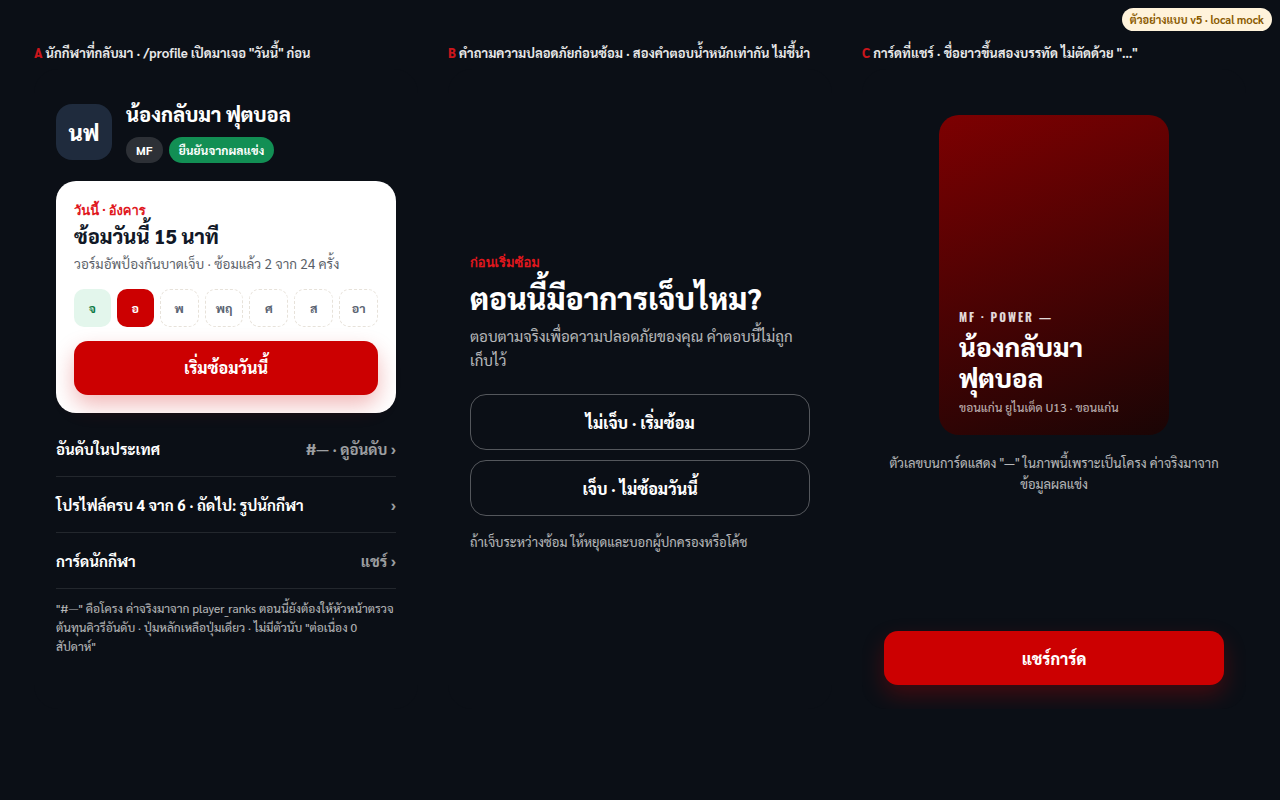
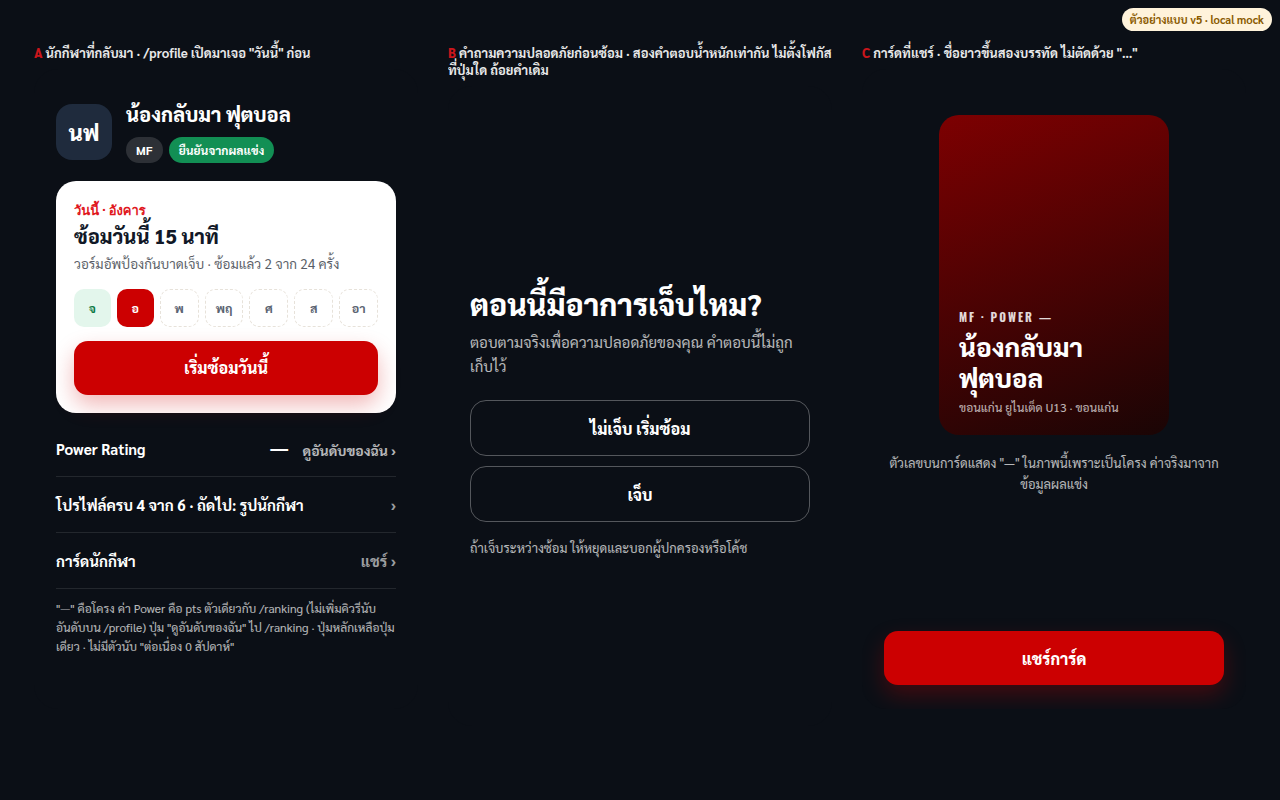
docs: align mockups v3/v4/v5 with the lead's review; add approval status
Claude-Session: https://claude.ai/code/session_01PjDzXVQ18knfqzVgKra3B3

diff --git a/docs/ux-audit/mockups/v5-flow5.html b/docs/ux-audit/mockups/v5-flow5.html
@@ -12,11 +12,11 @@
 <div class="top"><div class="av">นฟ</div><div><b style="font:800 20px var(--font-sarabun)">น้องกลับมา ฟุตบอล</b><div class="chips"><span class="ui-chip is-self">MF</span><span class="ui-chip is-performance">ยืนยันจากผลแข่ง</span></div></div></div>
 <div class="card2"><p class="ui-eyebrow" style="letter-spacing:0;text-transform:none;font-size:13px">วันนี้ · อังคาร</p><h2 class="ui-h2" style="margin:2px 0 0;font-size:20px">ซ้อมวันนี้ 15 นาที</h2><p class="sub" style="font-size:13.5px;margin-top:4px">วอร์มอัพป้องกันบาดเจ็บ · ซ้อมแล้ว 2 จาก 24 ครั้ง</p>
 <div class="wk"><i class="done">จ</i><i class="on">อ</i><i>พ</i><i>พฤ</i><i>ศ</i><i>ส</i><i>อา</i></div><button class="ui-btn ui-btn-primary">เริ่มซ้อมวันนี้</button></div>
-<div style="margin-top:8px"><div class="line">อันดับในประเทศ<span class="r">#— · ดูอันดับ ›</span></div><div class="line">โปรไฟล์ครบ 4 จาก 6 · ถัดไป: รูปนักกีฬา<span class="r">›</span></div><div class="line">การ์ดนักกีฬา<span class="r">แชร์ ›</span></div></div>
-<p class="sub" style="font-size:12px;margin-top:10px">"#—" คือโครง ค่าจริงมาจาก player_ranks ตอนนี้ยังต้องให้หัวหน้าตรวจต้นทุนคิวรีอันดับ · ปุ่มหลักเหลือปุ่มเดียว · ไม่มีตัวนับ "ต่อเนื่อง 0 สัปดาห์"</p></div></div></section>
+<div style="margin-top:8px"><div class="line">Power Rating <span class="r" style="opacity:1;font:800 18px var(--font-oswald)">— &nbsp; <span style="font:700 14px var(--font-sarabun);opacity:.7">ดูอันดับของฉัน ›</span></span></div><div class="line">โปรไฟล์ครบ 4 จาก 6 · ถัดไป: รูปนักกีฬา<span class="r">›</span></div><div class="line">การ์ดนักกีฬา<span class="r">แชร์ ›</span></div></div>
+<p class="sub" style="font-size:12px;margin-top:10px">"—" คือโครง ค่า Power คือ pts ตัวเดียวกับ /ranking (ไม่เพิ่มคิวรีนับอันดับบน /profile) ปุ่ม "ดูอันดับของฉัน" ไป /ranking · ปุ่มหลักเหลือปุ่มเดียว · ไม่มีตัวนับ "ต่อเนื่อง 0 สัปดาห์"</p></div></div></section>
 
-<section><p class="cap"><b>B</b> คำถามความปลอดภัยก่อนซ้อม · สองคำตอบน้ำหนักเท่ากัน ไม่ชี้นำ</p><div class="scr dk ui-dark"><div class="in" style="justify-content:center"><p class="ui-eyebrow" style="letter-spacing:0;text-transform:none;font-size:13px">ก่อนเริ่มซ้อม</p><h1>ตอนนี้มีอาการเจ็บไหม?</h1><p class="sub">ตอบตามจริงเพื่อความปลอดภัยของคุณ คำตอบนี้ไม่ถูกเก็บไว้</p>
-<div class="pair"><button class="eq">ไม่เจ็บ · เริ่มซ้อม</button><button class="eq">เจ็บ · ไม่ซ้อมวันนี้</button></div><p class="sub" style="font-size:13px;margin-top:16px">ถ้าเจ็บระหว่างซ้อม ให้หยุดและบอกผู้ปกครองหรือโค้ช</p></div></div></section>
+<section><p class="cap"><b>B</b> คำถามความปลอดภัยก่อนซ้อม · สองคำตอบน้ำหนักเท่ากัน ไม่ตั้งโฟกัสที่ปุ่มใด ถ้อยคำเดิม</p><div class="scr dk ui-dark"><div class="in" style="justify-content:center"><h1>ตอนนี้มีอาการเจ็บไหม?</h1><p class="sub">ตอบตามจริงเพื่อความปลอดภัยของคุณ คำตอบนี้ไม่ถูกเก็บไว้</p>
+<div class="pair"><button class="eq">ไม่เจ็บ เริ่มซ้อม</button><button class="eq">เจ็บ</button></div><p class="sub" style="font-size:13px;margin-top:16px">ถ้าเจ็บระหว่างซ้อม ให้หยุดและบอกผู้ปกครองหรือโค้ช</p></div></div></section>
 
 <section><p class="cap"><b>C</b> การ์ดที่แชร์ · ชื่อยาวขึ้นสองบรรทัด ไม่ตัดด้วย "…"</p><div class="scr dk ui-dark"><div class="in" style="align-items:center"><div style="margin-top:20px;width:230px;height:320px;border-radius:20px;background:linear-gradient(160deg,#7d0001,#1a0505);padding:20px;display:flex;flex-direction:column;justify-content:flex-end"><span class="ui-eyebrow" style="color:#fff;opacity:.85">MF · POWER —</span><b style="font:800 26px/1.2 var(--font-sarabun);margin-top:6px">น้องกลับมา<br>ฟุตบอล</b><span style="font-size:12px;opacity:.7;margin-top:6px">ขอนแก่น ยูไนเต็ด U13 · ขอนแก่น</span></div>
 <p class="sub" style="margin-top:18px;text-align:center;font-size:13px">ตัวเลขบนการ์ดแสดง "—" ในภาพนี้เพราะเป็นโครง ค่าจริงมาจากข้อมูลผลแข่ง</p></div><div class="ft"><button class="ui-btn ui-btn-primary">แชร์การ์ด</button></div></div></section>

diff --git a/docs/ux-audit/mockups/v3-flow3.html b/docs/ux-audit/mockups/v3-flow3.html
@@ -5,9 +5,9 @@
 <div class="frames c3">
 <section><p class="cap"><b>A</b> โค้ช · ขั้น 2 ของ 3 ต่อจากหน้าตั้งชื่อทีม (/team-members?team=…)</p><div class="scr pp"><div class="in">
 <div class="stp" role="progressbar" aria-valuenow="2" aria-valuemin="1" aria-valuemax="3" aria-label="ขั้น 2 จาก 3"><div class="done"><i></i>สร้างทีม</div><div class="now"><i></i>เชิญสมาชิก</div><div><i></i>ส่งสมัคร & ชำระ</div></div>
-<p class="ui-eyebrow" style="letter-spacing:0;text-transform:none;font-size:13px">ขอนแก่น ยูไนเต็ด U13</p><h1>เชิญนักกีฬาคนแรก</h1><p class="sub">วางอีเมลที่นักกีฬาใช้สมัคร หลายคนได้ (คั่นด้วยบรรทัดใหม่)</p>
-<div style="margin-top:16px;border-bottom:1.5px solid var(--ui-line);min-height:110px;font:600 16px/1.9 var(--font-sarabun);opacity:.45">nong.a@example.com<br>nong.b@example.com</div>
-<p class="sub" style="font-size:12.5px;margin-top:12px">เด็กแต่ละคนกดรับเองในแอป · ส่งสมัครได้เมื่อมีคนตอบรับ 1 คนขึ้นไป · ไม่ต้องรอครบทีม</p></div>
+<p class="ui-eyebrow" style="letter-spacing:0;text-transform:none;font-size:13px">ขอนแก่น ยูไนเต็ด U13</p><h1>เชิญนักกีฬาคนแรก</h1><p class="sub">กรอกอีเมลที่นักกีฬาใช้สมัคร</p>
+<div style="margin-top:20px;border-bottom:1.5px solid var(--ui-line);padding:10px 0;font:600 18px var(--font-sarabun);opacity:.45">nong.a@example.com</div>
+<p class="sub" style="font-size:12.5px;margin-top:12px">เชิญได้ทีละคน เด็กแต่ละคนกดรับเองในแอป · ส่งสมัครได้เมื่อมีคนตอบรับ 1 คนขึ้นไป · ไม่ต้องรอครบทีม (เชิญหลายอีเมลรอเจ้าของเลือกวิธีตอบ ก./ข.)</p></div>
 <div class="ft"><button class="ui-btn ui-btn-primary">ส่งคำเชิญ</button><p class="hint">ตอบรับแล้ว 0 · รอตอบ 0</p></div></div></section>
 
 <section><p class="cap"><b>B</b> โค้ชที่ยังไม่มีทีม · เปิด /team-members (เดิมเห็นแต่ "คำเชิญของฉัน")</p><div class="scr pp"><div class="in"><p class="ui-eyebrow" style="letter-spacing:0;text-transform:none;font-size:13px">ทีมของฉัน</p><h1>ยังไม่มีทีม</h1><p class="sub">เริ่มจากเลือกรายการที่เปิดรับสมัคร แล้วตั้งชื่อทีม</p>

diff --git a/docs/ux-audit/mockups/v4-flow4.html b/docs/ux-audit/mockups/v4-flow4.html
@@ -20,6 +20,6 @@
 <section><p class="cap"><b>C</b> ทีมรอยืนยัน · ตรวจสลิปแล้วกดครั้งเดียว</p><div class="scr pp"><div class="in"><p class="ui-eyebrow" style="letter-spacing:0;text-transform:none;font-size:13px">ทีมรอยืนยัน 2</p><h1 style="font-size:24px">ร.ร.อัสสัมชัญศรีราชา</h1><p class="sub">ศึกชิงถ้วยพระราชทาน U15 · นักกีฬาตอบรับแล้ว 7 คน</p>
 <div class="row2"><div><b>฿1,500</b>ยอดต้องชำระ</div><div><b>รอตรวจ</b>สลิปที่ส่งมา</div></div>
 <div class="slip">สลิปโอนเงิน (พื้นที่ภาพ ตัวอย่าง ไม่ใช่ภาพจริง)<br>แตะเพื่อขยาย</div>
-<div class="note">กดครั้งเดียว = ยืนยันการชำระเงินและยืนยันทีมพร้อมกัน ระบบทำสองอย่างในธุรกรรมเดียว ไม่ค้างกลางทาง</div></div>
+<div class="note">กดครั้งเดียว = ยืนยันการชำระเงินและยืนยันทีมพร้อมกัน ระบบทำสองอย่างในธุรกรรมเดียว ไม่ค้างกลางทาง · ปุ่มยืนยันทีมแยกเหลือไว้เฉพาะรายการที่ไม่มีค่าสมัคร</div></div>
 <div class="ft"><button class="ui-btn ui-btn-primary">ยืนยันทีมและการชำระ</button><button class="gh">ปฏิเสธ</button><p class="hint tap" style="opacity:1">1 แตะต่อทีม (เดิม 2 + เปิดสลิป)</p></div></div></section>
 </div></body></html>

diff --git a/docs/ux-audit/status.md b/docs/ux-audit/status.md
@@ -1,0 +1,20 @@
+# สถานะ mockup และการอนุมัติ (ปรับล่าสุด 6 ต.ค. 2026)
+
+กฎ: ไม่แก้โค้ดแอปจนกว่า **เจ้าของ** จะพิมพ์อนุมัติเอง ข้อความตัวอย่างที่หัวหน้าเขียนให้เจ้าของใช้ตอบไม่นับเป็นการอนุมัติ
+
+| mockup | สถานะ | หมายเหตุ |
+|---|---|---|
+| v2-3 บันทึกผลแข่ง | **สร้างแล้ว** (อนุมัติโดยเจ้าของ) `c6a5445`, `bc65339` | รวมใน branch ของหัวหน้าแล้ว |
+| v3 โค้ช/นักกีฬาที่ถูกเชิญ (A, B, C) | รออนุมัติเจ้าของ | A ทำแบบช่องอีเมลเดียวได้ · เชิญหลายอีเมลรอเจ้าของเลือก ก./ข. |
+| v4 ผู้จัด (A, B, C) | รออนุมัติเจ้าของ | A เว้นช่องทางขอสิทธิ์ไว้ ไม่ใส่ปุ่มติดต่อ (ยังไม่มีช่องทาง) · B ปุ่มขึ้นเฉพาะนัดแรกที่ยังว่างของคู่ · C ใช้ `/api/payments/[id]/confirm` ตัวเดียว |
+| v5 นักกีฬาที่กลับมา (A, B, C) | รออนุมัติเจ้าของ | A แสดง Power (`pts` ตัวเดียวกับ `/ranking`) + ปุ่ม "ดูอันดับของฉัน" ไม่มีคิวรีนับอันดับ · B ปุ่มเท่ากัน ไม่ตั้งโฟกัส ถ้อยคำเดิมจนกว่าผู้รู้ตรวจ |
+| v2-1, v2-2, v2-4, v2-5 | รอ (ติดเรื่องฐานข้อมูล/กฎหมาย/เลือก ก./ข.) | หยุดไว้ที่ mockup |
+
+## ตัวเลือก ก./ข. (เชิญสมาชิกเมื่ออีเมลยังไม่มีบัญชี) — รอเจ้าของเลือก
+
+- **ก.** ตอบข้อความเดียวกันทุกกรณี เช่น "ส่งคำเชิญแล้ว ถ้าอีเมลนี้มีบัญชี เจ้าของบัญชีจะเห็นคำเชิญ" คนภายนอกเช็กไม่ได้ว่าอีเมลไหนมีบัญชี แต่โค้ชจะไม่รู้ทันทีว่าพิมพ์อีเมลผิด (ชดเชยด้วยรายการ "รอตอบ") หัวหน้าแนะนำ
+- **ข.** คงข้อความ "ยังไม่มีบัญชีนี้ในระบบ" แล้วจำกัดจำนวนครั้งที่เชิญต่อชั่วโมง
+
+## เมื่อเจ้าของอนุมัติ — ลำดับงาน
+
+v4-B → v4-C → v3-B → v3-C → v5-C → (v5-A, v5-B, v3-A ตามเงื่อนไขข้างบน) เขียนเทสต์ก่อน แยก commit ต่อ mockup ทำบน `claude/funny-bohr-aoffz9` หัวหน้า review ก่อนรวม
